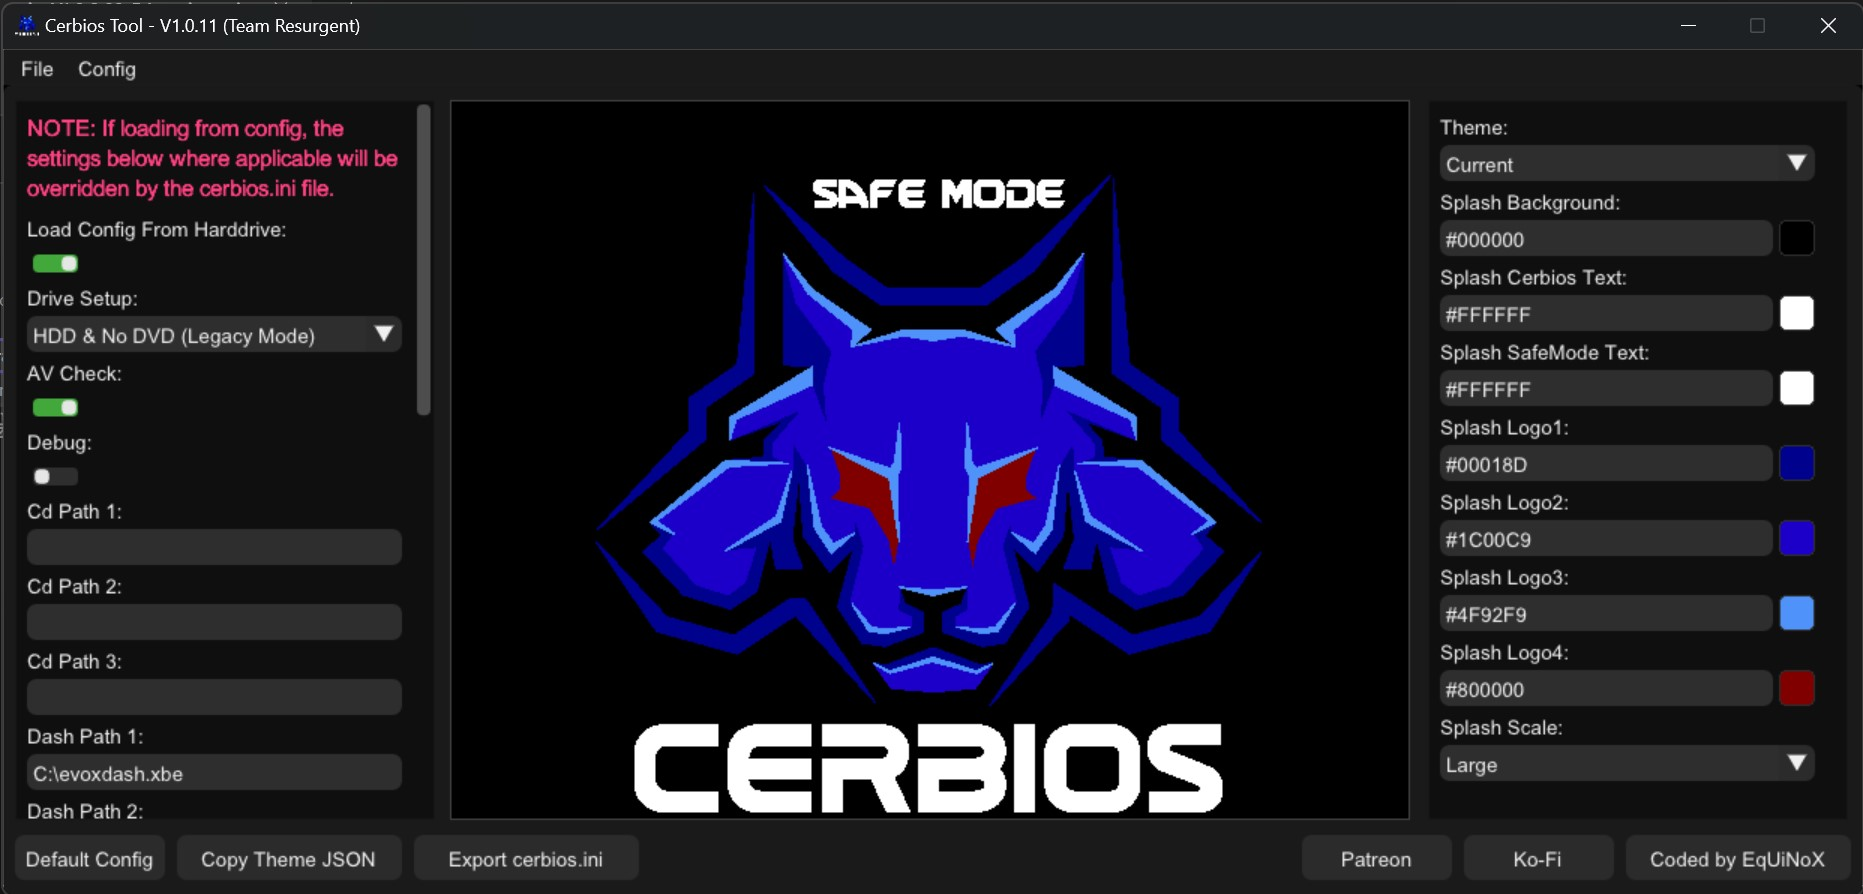
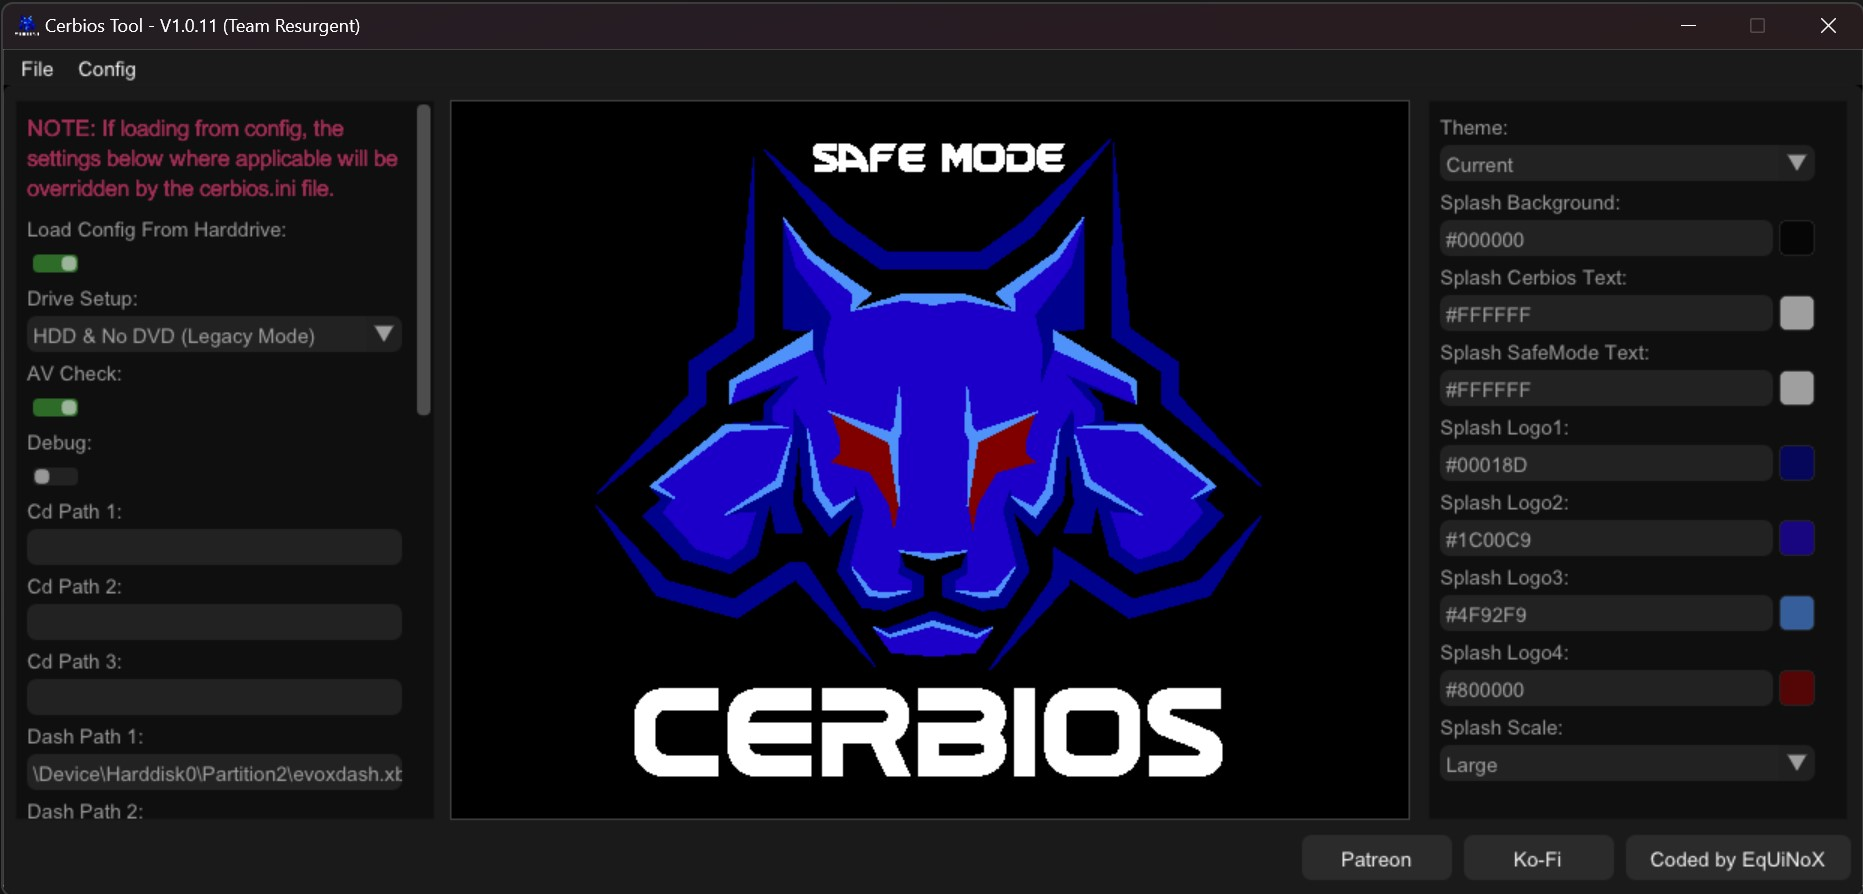
UI fix

diff --git a/CerbiosTool/Application.cs b/CerbiosTool/Application.cs
@@ -661,6 +661,7 @@ namespace CerbiosTool
             ImGui.EndChild();
 
             var startPos = new Vector2(250 + 48, 34);
+            var imagePos = new Vector2(startPos.X, 10);
             var size = new Vector2(640, 480);
             var drawList = ImGui.GetWindowDrawList();
             drawList.AddRectFilled(startPos, startPos + size, ImGui.ColorConvertFloat4ToU32(Config.RGBToVector4(m_config.SplashBackground)));
@@ -668,24 +669,25 @@ namespace CerbiosTool
 
             if (m_config.SplashScale > 0)
             {
+                
                 var scaledSize = size / m_config.SplashScale;
                 var scaleOffset = (size - scaledSize) / 2;
-                ImGui.SetCursorPos(startPos + scaleOffset);
+                ImGui.SetCursorPos(imagePos + scaleOffset);
                 ImGui.Image(m_controller.Logo1Texture, scaledSize, Vector2.Zero, Vector2.One, Config.RGBToVector4(m_config.SplashLogo1));
-                ImGui.SetCursorPos(startPos + scaleOffset);
+                ImGui.SetCursorPos(imagePos + scaleOffset);
                 ImGui.Image(m_controller.Logo2Texture, scaledSize, Vector2.Zero, Vector2.One, Config.RGBToVector4(m_config.SplashLogo2));
-                ImGui.SetCursorPos(startPos + scaleOffset);
+                ImGui.SetCursorPos(imagePos + scaleOffset);
                 ImGui.Image(m_controller.Logo3Texture, scaledSize, Vector2.Zero, Vector2.One, Config.RGBToVector4(m_config.SplashLogo3));
-                ImGui.SetCursorPos(startPos + scaleOffset);
+                ImGui.SetCursorPos(imagePos + scaleOffset);
                 ImGui.Image(m_controller.Logo4Texture, scaledSize, Vector2.Zero, Vector2.One, Config.RGBToVector4(m_config.SplashLogo4));
-                ImGui.SetCursorPos(startPos + scaleOffset);
+                ImGui.SetCursorPos(imagePos + scaleOffset);
                 ImGui.Image(m_controller.CerbiosTextTexture, scaledSize, Vector2.Zero, Vector2.One, Config.RGBToVector4(m_config.SplashCerbiosText));
-                ImGui.SetCursorPos(startPos + scaleOffset);
+                ImGui.SetCursorPos(imagePos + scaleOffset);
                 ImGui.Image(m_controller.SafeModeTextTexture, scaledSize, Vector2.Zero, Vector2.One, Config.RGBToVector4(m_config.SplashSafeModeText));
             }
             else 
             {
-                ImGui.SetCursorPos(startPos);
+                ImGui.SetCursorPos(imagePos);
                 ImGui.Image(m_controller.SafeModeTextTexture, size, Vector2.Zero, Vector2.One, Config.RGBToVector4(m_config.SplashSafeModeText));
             }
 
